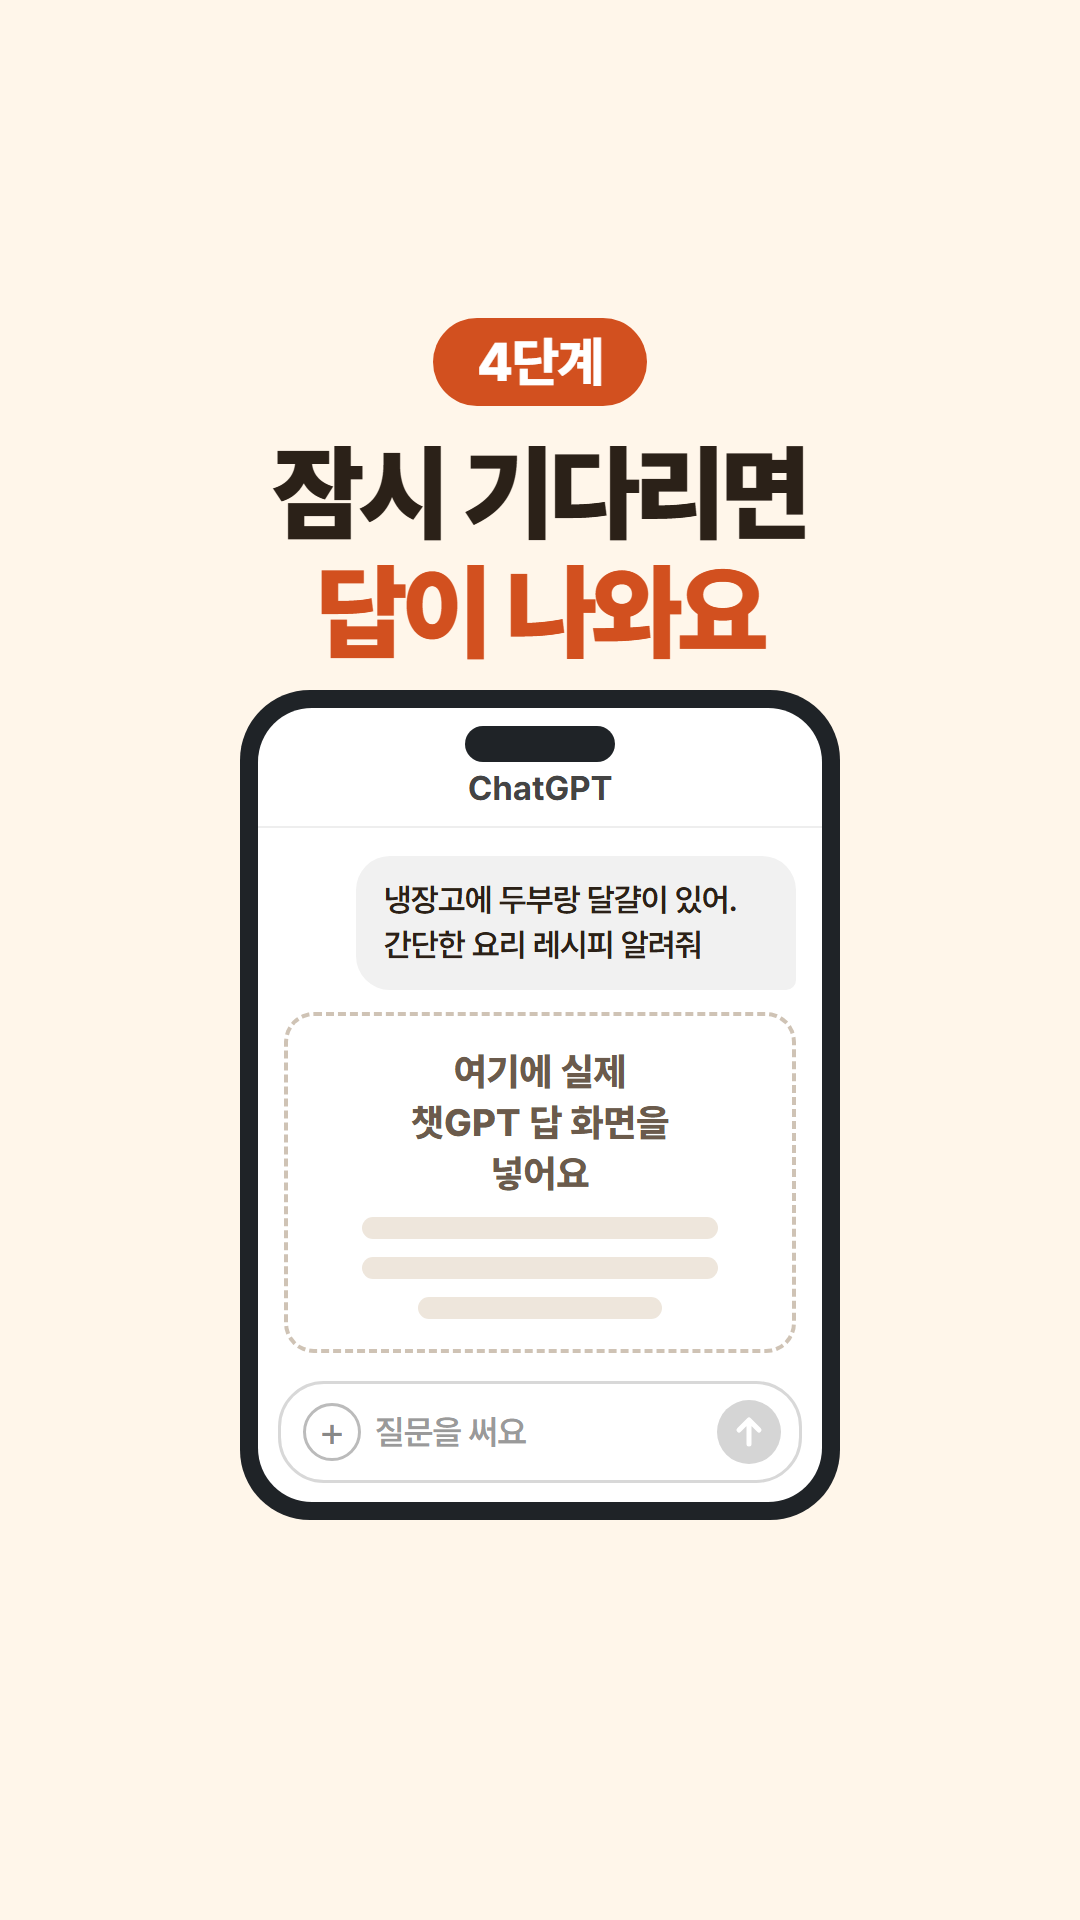
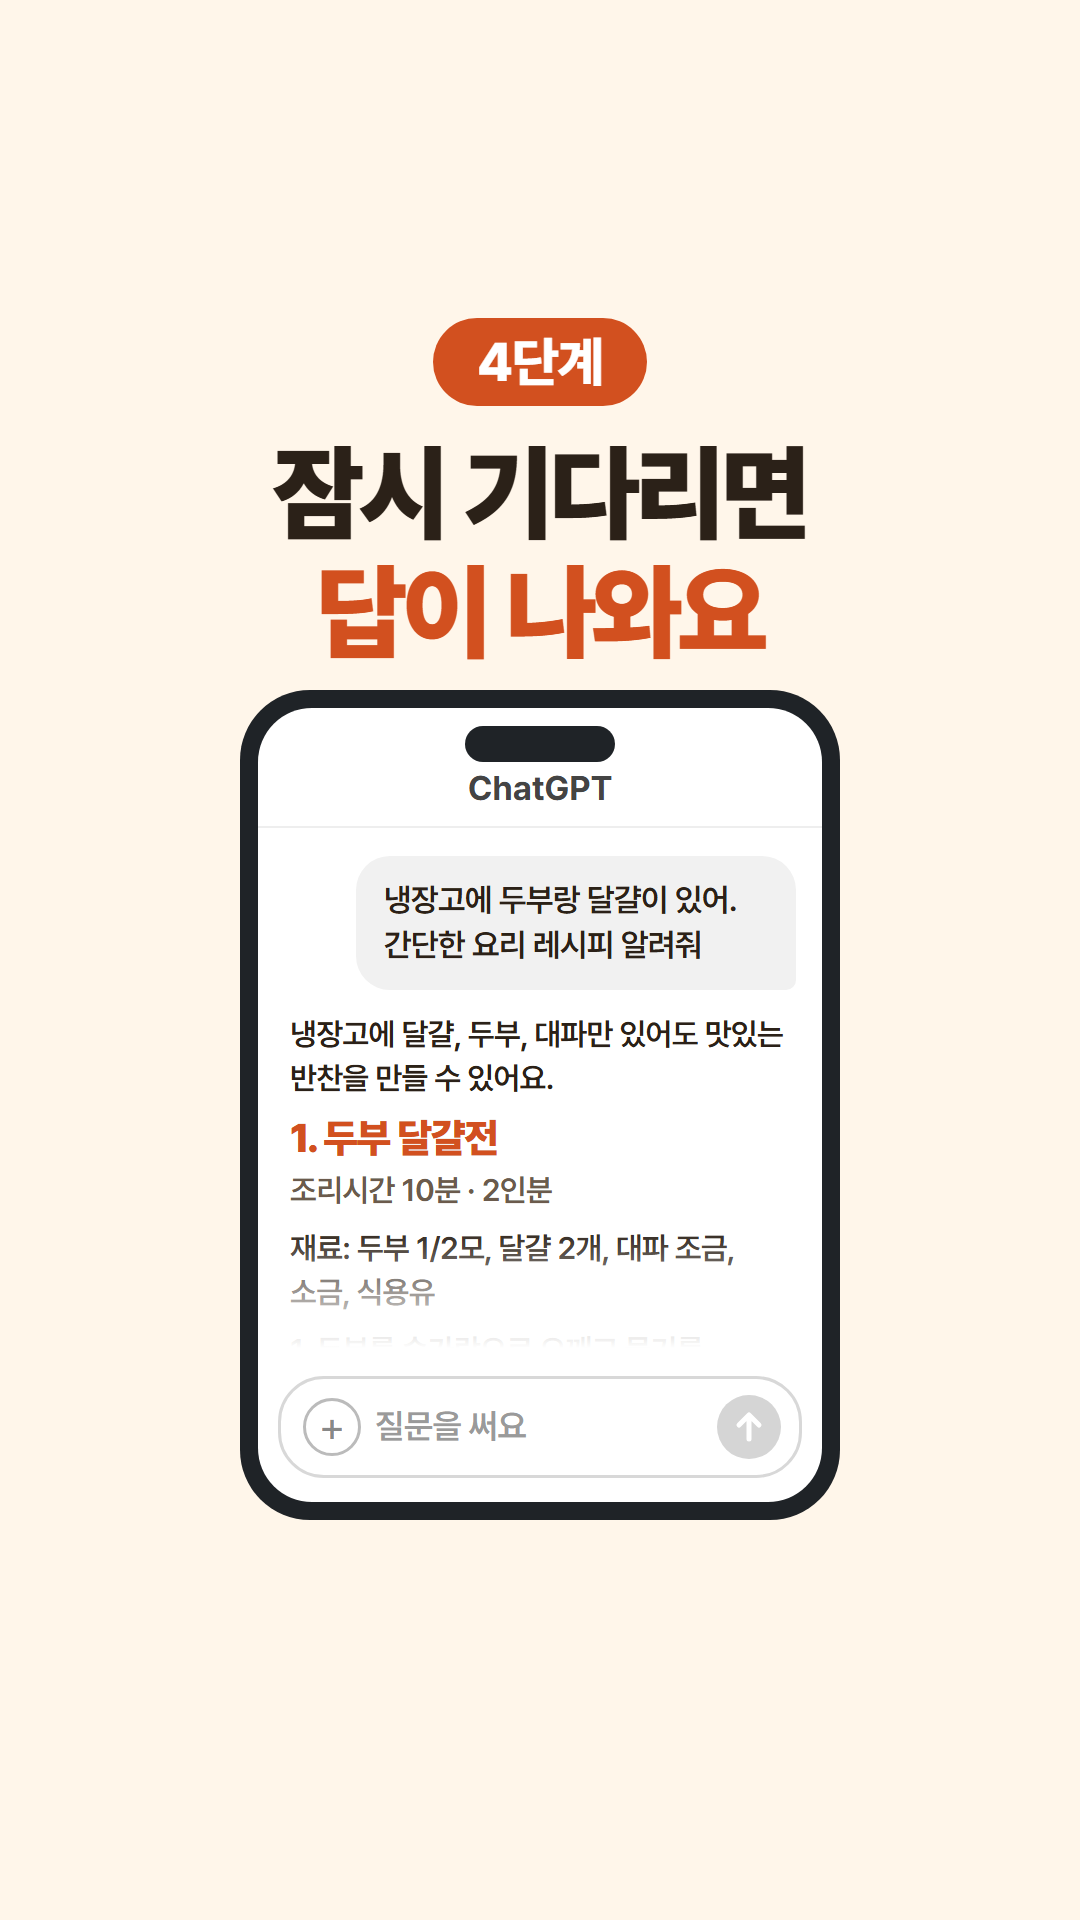
쇼츠 장면 7: 실제 챗GPT 답(두부 달걀전) 넣기

Changed region(s): [[0.2444, 0.5312, 0.7333, 0.7812], [0.275, 0.7188, 0.4889, 0.7812]]

diff --git a/shorts/2026-10-22-AI처음쓰기-냉장고요리/scenes.html b/shorts/2026-10-22-AI처음쓰기-냉장고요리/scenes.html
@@ -39,7 +39,7 @@
   .notch { position: absolute; top: 18px; left: 50%; width: 150px; height: 36px; margin-left: -75px; border-radius: 18px; background: var(--phone); }
 
   .top { height: 120px; flex: none; display: flex; align-items: flex-end; justify-content: center; padding-bottom: 18px; font-weight: 700; font-size: 34px; color: #444; border-bottom: 2px solid #EEE; }
-  .chat { flex: 1; padding: 28px 26px; display: flex; flex-direction: column; gap: 22px; }
+  .chat { flex: 1; min-height: 0; padding: 28px 26px; display: flex; flex-direction: column; gap: 22px; }
 
   .inputbar { margin: 0 20px 24px; border: 3px solid #D8D8D8; border-radius: 46px; min-height: 100px; padding: 16px 18px 16px 22px; display: flex; align-items: center; gap: 14px; background: #fff; flex: none; }
   .inputbar .plus { width: 58px; height: 58px; flex: none; border-radius: 29px; border: 3px solid #BBB; color: #888; font-size: 42px; font-weight: 400; line-height: 50px; text-align: center; }
@@ -71,6 +71,11 @@
 
   /* 대화 말풍선 */
   .me { align-self: flex-end; max-width: 86%; background: #F1F1F1; border-radius: 34px 34px 10px 34px; padding: 22px 28px; font-weight: 600; font-size: 32px; line-height: 1.4; letter-spacing: -0.02em; }
+  .reply { position: relative; flex: 1; overflow: hidden; padding: 0 6px; }
+  .reply::after { content: ""; position: absolute; left: 0; right: 0; bottom: 0; height: 120px; background: linear-gradient(rgba(255,255,255,0), #fff); }
+  .reply p { font-weight: 600; font-size: 31px; line-height: 1.42; letter-spacing: -0.02em; margin-bottom: 14px; }
+  .reply h3 { font-weight: 900; font-size: 40px; letter-spacing: -0.03em; margin: 6px 0 6px; color: var(--accent); }
+  .reply .meta { color: var(--muted); }
   .ans { flex: 1; border: 4px dashed #CFC3B5; border-radius: 30px; display: flex; flex-direction: column; justify-content: center; align-items: center; gap: 18px; padding: 30px; text-align: center; }
   .ans b { font-weight: 800; font-size: 38px; color: var(--muted); line-height: 1.35; }
   .ans span { display: block; width: 80%; height: 22px; border-radius: 11px; background: #EEE6DC; }
@@ -219,9 +224,12 @@
     <div class="top">ChatGPT</div>
     <div class="chat">
       <div class="me">냉장고에 두부랑 달걀이 있어. 간단한 요리 레시피 알려줘</div>
-      <div class="ans">
-        <b>여기에 실제<br>챗GPT 답 화면을<br>넣어요</b>
-        <span></span><span></span><span class="s"></span>
+      <div class="reply">
+        <p>냉장고에 달걀, 두부, 대파만 있어도 맛있는 반찬을 만들 수 있어요.</p>
+        <h3>1. 두부 달걀전</h3>
+        <p class="meta">조리시간 10분 · 2인분</p>
+        <p>재료: 두부 1/2모, 달걀 2개, 대파 조금, 소금, 식용유</p>
+        <p>1. 두부를 숟가락으로 으깨고 물기를 짜주세요.</p>
       </div>
     </div>
     <div class="inputbar">

diff --git a/shorts/2026-10-22-AI처음쓰기-냉장고요리.md b/shorts/2026-10-22-AI처음쓰기-냉장고요리.md
@@ -6,7 +6,7 @@
 자막 위치: 모든 자막은 화면 위쪽 15%(0~288px)와 아래쪽 20%(1536~1920px)를 피해 가운데 영역에 둔다. 휴대폰 화면 그림은 자막 아래 가운데에 크게.
 화면 표시: 누를 곳은 동그라미로 감싸고 손가락 그림이 톡 누른다. 단계 번호는 자막 첫 줄에 크게.
 참고: 앱 화면과 버튼 위치는 휴대폰 종류나 앱 업데이트에 따라 조금 다를 수 있다. 화면은 실제 앱을 그대로 베끼지 않고 단순한 그림으로 그린다.
-4단계 답 화면: 영상 만들기 전에 실제 챗GPT 앱에 같은 질문을 넣어 받은 답으로 채운다. (답을 지어내지 않는다)
+4단계 답 화면: 사용자가 실제 챗GPT 앱에서 받은 답(2026-10-22)의 첫 부분(인사말, 1. 두부 달걀전, 조리시간, 재료)을 넣고 아래는 흐리게 처리했다.
 ---
 
 | 장면 | 시간 | 화면 자막 | 내레이션 | 화면 모습 |
@@ -17,6 +17,6 @@
 | 4 | 15~23초 | 이렇게<br>써 보세요 | 이렇게 써 보세요. 냉장고에 두부랑 달걀이 있어. 간단한 요리 레시피 알려줘. | 시연: 입력 칸에 글자가 하나씩 써짐 「냉장고에 두부랑 달걀이 있어. 간단한 요리 레시피 알려줘」 |
 | 5 | 23~28초 | 글쓰기 어려우면<br>마이크로 말해요 | 글쓰기가 어려우면 마이크 표시를 누르고 말로 하셔도 돼요. | 입력 칸 옆 마이크 표시에 동그라미 |
 | 6 | 28~32초 | 3단계<br>화살표 눌러 보내기 | 3단계. 오른쪽 화살표를 눌러 보내세요. | 보내기(화살표) 버튼에 동그라미, 손가락이 톡 |
-| 7 | 32~40초 | 4단계<br>답이 나와요 | 4단계. 잠시 기다리면 이렇게 요리법이 나와요. | 답 말풍선이 나타나 천천히 위로 올라감 (실제 앱에서 받은 답) |
+| 7 | 32~40초 | 4단계<br>답이 나와요 | 4단계. 잠시 기다리면 이렇게 요리법이 나와요. | 실제 받은 답이 나타나 천천히 위로 올라감: 「1. 두부 달걀전 · 조리시간 10분 · 2인분 · 재료: 두부 1/2모, 달걀 2개, 대파 조금…」 |
 | 8 | 40~45초 | 사용 방법<br>어렵지 않죠? | 사용 방법, 어렵지 않죠? | 휴대폰 그림 옆에 웃는 얼굴. 1~4단계가 작은 목록으로 한 번에 정리됨 |
 | 9 | 45~55초 | 오늘 저녁<br>한번 물어보세요 | 오늘 저녁 메뉴, 한번 물어보세요. 해 보셨으면 댓글로 알려 주시고, 팔로우하시면 다음 방법도 알려 드릴게요. | 강조색 배경 위 흰 글자. 끝에 "댓글 · 팔로우" 한 줄 추가 |
